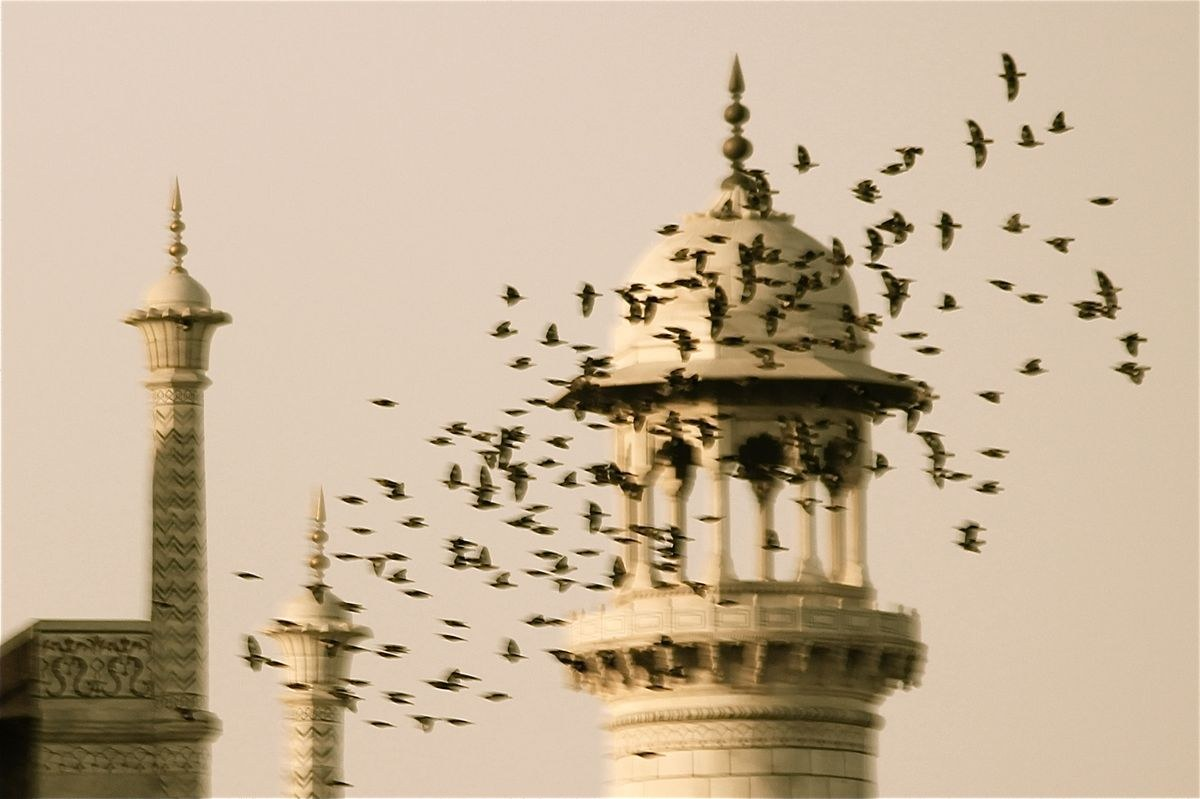
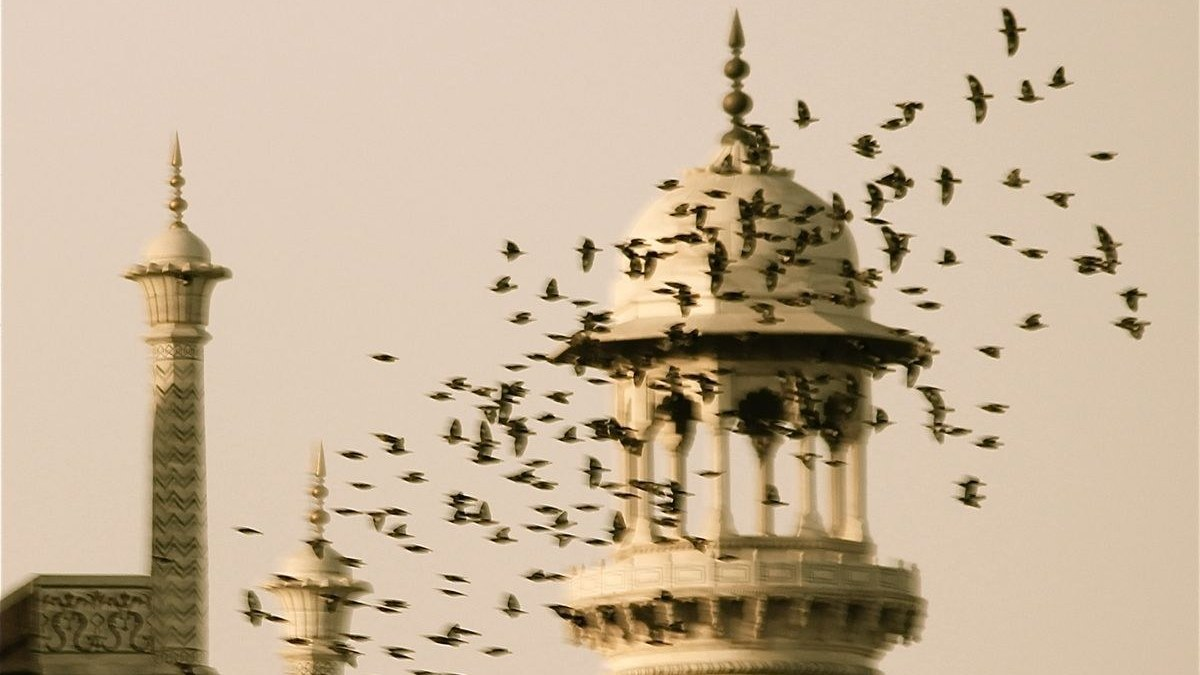
Homepage: crop minaret photo to 16:9

diff --git a/index.html b/index.html
@@ -15,7 +15,7 @@
     <article class="content post home-bio">
       <p class="now-close">hi, my name is muhib, I am 19 and live between toronto and waterloo</p>
       <p class="now-close">right now, i am at the <a href="https://uwaterloo.ca" target="_blank" rel="noopener"><span class="uw-highlight">university of waterloo<img class="inline-logo no-square" src="/uwaterloo-logo.png" alt="" /></span></a>, making third spaces with <span style="white-space:nowrap"><a href="https://pillars.network" target="_blank" rel="noopener"><strong>pillars</strong><img class="inline-logo" src="/pillars-logo.png" alt="" /></a>;</span> previously i was an applied ai engineer at <a class="zown-peek" href="https://zown.ca" target="_blank" rel="noopener"><strong>zown</strong><img class="inline-logo" src="/zown-logo.png" alt="" /></a></p>
-      <img class="home-photo home-photo-free" src="/photos/minaret-birds.jpg" width="1200" height="799" alt="a flock of birds flying past a white minaret" loading="lazy" decoding="async" />
+      <img class="home-photo" src="/photos/minaret-birds.jpg" width="1200" height="675" alt="a flock of birds flying past a white minaret" loading="lazy" decoding="async" />
       <p class="now-close">in a previous life, i was homeschooled, moved around a lot, built computers, clothing brands, &amp; social media &amp; automation agencies, I love meeting new people, pushing myself, coffee, and a good sparring sesh</p>
       <p class="now-close">success to me isn't a number, it's a life lived that changes life for others.</p>
       <div class="sign-row">
